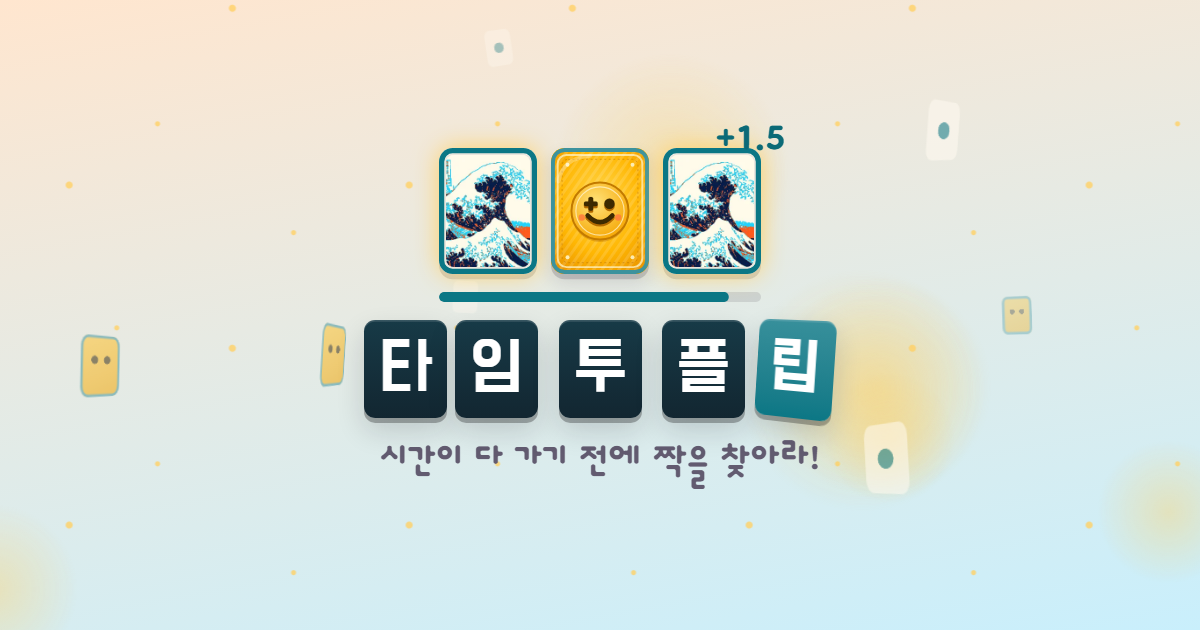
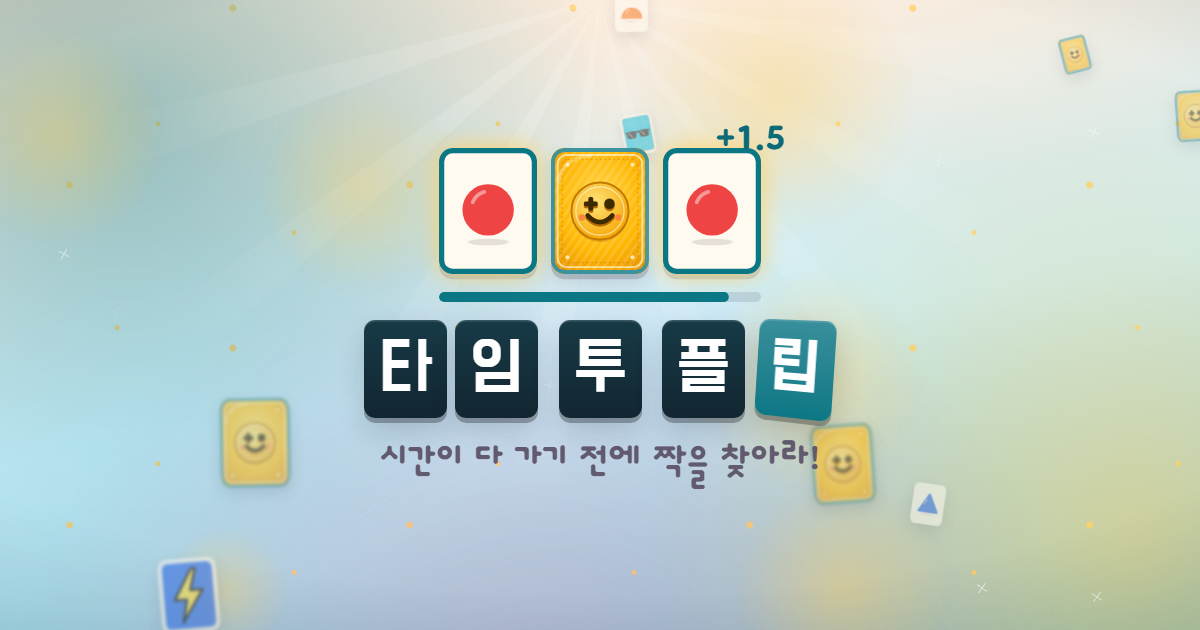
타임 투 플립 명화 숨기기: 로고 시연·배경 카드는 도형·팝아트만, 도감 묶음 이름은 한 장이라도 열어야 보임(timetoflip v0.5.1)
- 시작 화면 로고 카드 세 장: 명화 → 도형(빨강 원·파랑 세모), 링크 미리보기 그림도 다시 찍음(og-image ?v=4)
- 배경 떠다니는 카드: 도형·팝아트 묶음에서만
- 도감: 묶음 안 카드를 하나도 못 맞혔으면 묶음 이름을 ??? 로

diff --git a/games/timetoflip/src/ui/scene.ts b/games/timetoflip/src/ui/scene.ts
@@ -1,4 +1,4 @@
-import { ALL_FACES, type FaceId } from '../game/faces';
+import { FACE_SETS, type FaceId } from '../game/faces';
 import { CARD_BACK, faceSvg } from './art';
 import { reducedMotion } from './effects';
 
@@ -6,7 +6,7 @@ import { reducedMotion } from './effects';
  * 깊이감 있는 움직이는 배경(화면 뒤 고정 층). 색은 스킨을 따른다(styles.css .scene).
  *   빛      스킨 색이 번지는 오로라 덩어리 3개가 천천히 흐르고, 위에서 빛줄기가 느리게 돈다. 가장자리는 살짝 어둡게(비네트)
  *   먼 층   큰 빛망울이 떠다니며 숨 쉬듯 커졌다 작아짐 + 작은 반짝이
- *   중간 층 실제 카드(뒷면·도형·팝아트·명화)가 좌우로 흔들리며 떠오르고, 가끔 뒤집혀 그림을 보였다 다시 덮음
+ *   중간 층 실제 카드(뒷면·도형·팝아트)가 좌우로 흔들리며 떠오르고, 가끔 뒤집혀 그림을 보였다 다시 덮음
  *   가까운 층 큰 카드가 더 빠르게, 살짝 흐릿하게(초점 밖) 지나감
  * 가까울수록 크고·빠르고·흐리게 해서 깊이를 낸다. PC 에서는 마우스를 따라 층마다 다른 만큼 움직인다(시차).
  * 움직임은 transform·opacity 만 쓰고(GPU 합성), 게임 중에는 흐리게 해 카드를 방해하지 않는다.
@@ -18,8 +18,8 @@ export function mountScene(): void {
   let seed = 7;
   const rnd = () => ((seed = (seed * 16807) % 2147483647) / 2147483647);
   const pick = (a: number, b: number) => (a + rnd() * (b - a)).toFixed(2);
-  // 떠다니는 카드 그림: 48장에서 고르게 섞어 뽑는다(도형·팝아트·명화가 골고루 보이게)
-  const faces = [...ALL_FACES].sort(() => rnd() - 0.5);
+  // 떠다니는 카드 그림: 처음 두 묶음(도형·팝아트)에서만 뽑는다. 명화는 게임에서 만나는 깜짝 선물로 남겨 둔다
+  const faces = FACE_SETS.slice(0, 2).flatMap((s) => [...s.faces] as FaceId[]).sort(() => rnd() - 0.5);
   let next = 0;
   const face = (): FaceId => faces[next++ % faces.length];
 

diff --git a/games/timetoflip/src/ui/screens.ts b/games/timetoflip/src/ui/screens.ts
@@ -116,7 +116,7 @@ function titleCards(title: string): string {
 function heroDemo(): string {
   const card = (n: number, face: FaceId) =>
     `<span class="card demo-card d${n}"><span class="inner"><span class="side back">${CARD_BACK}</span><span class="side front">${faceSvg(face)}</span></span></span>`;
-  return `<div class="demo">${card(1, 'wave')}${card(2, 'strawhat')}${card(3, 'wave')}<b class="demo-pop">+1.5</b></div><div class="demo-timer"><i></i></div>`;
+  return `<div class="demo">${card(1, 'circle')}${card(2, 'triangle')}${card(3, 'circle')}<b class="demo-pop">+1.5</b></div><div class="demo-timer"><i></i></div>`;
 }
 
 export function startScreen(opts: StartOptions): HTMLElement {
@@ -219,7 +219,7 @@ function openDex(host: HTMLElement, save: SaveData): void {
       <div class="dex-sets">
         ${FACE_SETS.map(
           (s, i) => `<section>
-            <h3>${setName(s.id)} <small>${t('dex.from', { n: i + 1 })}</small></h3>
+            <h3>${s.faces.some((f) => found.has(f)) ? setName(s.id) : '???'} <small>${t('dex.from', { n: i + 1 })}</small></h3>
             <ul>${s.faces
               .map((f) => {
                 const label = found.has(f) ? `${faceName(f)}${gold.has(f) ? ` · ${t('dex.gold')}` : ''}` : `??? — ${t('dex.locked')}`;

diff --git a/games/timetoflip/index.html b/games/timetoflip/index.html
@@ -15,7 +15,7 @@
     <meta property="og:title" content="타임 투 플립 ⏱" />
     <meta property="og:description" content="시간이 다 가기 전에 짝을 찾아라! 맞힐수록 시간이 늘어나는 카드 짝 맞추기" />
     <meta property="og:url" content="https://myong558.github.io/project-joypack/games/timetoflip/" />
-    <meta property="og:image" content="https://myong558.github.io/project-joypack/games/timetoflip/og-image.png?v=3" />
+    <meta property="og:image" content="https://myong558.github.io/project-joypack/games/timetoflip/og-image.png?v=4" />
     <meta property="og:image:width" content="1200" />
     <meta property="og:image:height" content="630" />
     <meta property="og:image:alt" content="타임 투 플립 게임 화면" />

diff --git a/games/timetoflip/README.md b/games/timetoflip/README.md
@@ -8,7 +8,7 @@
 - 모드: 클래식(끝없이 이어지는 판) / 오늘의 챌린지(날짜 시드, 모두 같은 카드 배치)
 - 랭킹: `games/timetoflip/rankings/classic`, `daily-YYYY-MM-DD`(순위표 1개 = 문서 1개, `{ name, score, stage, date }`). 점수 높은 순, 동점은 먼저 올린 기록
 - 손맛: 아래 "손맛" 표
-- 정체성: 째깍째깍 경쾌한 시간 퍼즐 · 글꼴 Do Hyeon(본문·숫자) + Dongle Bold(제목·팝업, Do Hyeon 에 없는 기호도) + Jua(공용 위 메뉴 언어 단추만) · 청록 `#0b7785`(스킨마다 바뀜) · 자명종 마스코트 째깍이(게임 중 시간 막대) + 조이팩 로고 얼굴 카드 뒷면 · 로고: 진한 글자 카드 제목(마지막 글자만 강조색으로 뒤집히는 중, 누르면 한 바퀴 뒤집힘) 위에 카드 세 장 시연(뒤집기 → 틀림 → 짝 → 시간 막대 차오름, 7초 반복, 결과 화면 위에도 작게) · 아이콘: 진한 남보라 바탕(허브 청록 그림판과 구분)에 조이팩 얼굴 뒷면 + 달 앞면 카드와 시간 막대 · 배경: 스킨 하늘(위쪽 빛 + 아래로 강조색) 위에 오로라 덩어리 셋·도는 빛줄기·비네트, 먼 빛망울·반짝이, 실제 카드 그림이 좌우로 흔들리며 떠올라 뒤집혔다 덮임(가까운 층은 흐릿하게, 게임 중 흐리게) · 시간대 스킨(아침·한낮·노을·밤) · 마림바 같은 사인파, 콤보마다 음이 오름 · 3D 뒤집기·콤보 음계·시간 팝업
+- 정체성: 째깍째깍 경쾌한 시간 퍼즐 · 글꼴 Do Hyeon(본문·숫자) + Dongle Bold(제목·팝업, Do Hyeon 에 없는 기호도) + Jua(공용 위 메뉴 언어 단추만) · 청록 `#0b7785`(스킨마다 바뀜) · 자명종 마스코트 째깍이(게임 중 시간 막대) + 조이팩 로고 얼굴 카드 뒷면 · 로고: 진한 글자 카드 제목(마지막 글자만 강조색으로 뒤집히는 중, 누르면 한 바퀴 뒤집힘) 위에 카드 세 장 시연(도형 카드로, 명화는 미리 보이지 않게 · 뒤집기 → 틀림 → 짝 → 시간 막대 차오름, 7초 반복, 결과 화면 위에도 작게) · 아이콘: 진한 남보라 바탕(허브 청록 그림판과 구분)에 조이팩 얼굴 뒷면 + 달 앞면 카드와 시간 막대 · 배경: 스킨 하늘(위쪽 빛 + 아래로 강조색) 위에 오로라 덩어리 셋·도는 빛줄기·비네트, 먼 빛망울·반짝이, 실제 카드 그림이 좌우로 흔들리며 떠올라 뒤집혔다 덮임(가까운 층은 흐릿하게, 게임 중 흐리게) · 시간대 스킨(아침·한낮·노을·밤) · 마림바 같은 사인파, 콤보마다 음이 오름 · 3D 뒤집기·콤보 음계·시간 팝업
 - 상업 기준(10장):
   - 이름 검색(2026-10-24, 웹 검색): "Time to Flip"과 똑같은 게임·상표는 찾지 못함. 비슷한 것: USPTO **TIMEFLIP**(시간 기록 기기·소프트웨어, 게임 아님), itch.io 플랫폼 게임 "Time Flip"·퍼즐 데모 "Time Flipper"(장르 다름). 한국어 "타임 투 플립"은 못 찾음. **출시 전에 KIPRIS·USPTO·구글 플레이·앱스토어 검색을 다시 할 것**
   - 저작물: 도형·팝아트 카드 16장·특수 카드·카드 뒷면·마스코트·아이콘은 `src/ui/art.ts`·`public/favicon.svg` 에서 코드로 직접 그림(팝아트는 특정 작품을 베끼지 않은 화풍만). 명화 카드 32장은 메트로폴리탄 미술관 Open Access(CC0, 상업 이용·수정 자유) 이미지를 잘라 만든 `src/art/*.webp`(작품 번호·출처 `art-src/meta.json`, 만드는 법 `art-src/README.md`). 미술관 이름·로고로 후원·제휴처럼 보이게 하지 않는다. 소리는 Web Audio 합성. 제3자 것은 Do Hyeon·Dongle·Jua 글꼴(모두 SIL OFL 1.1, 예약 글꼴 이름 없음 → 서브셋 허용, `public/fonts/LICENSE-DoHyeon.txt`·`LICENSE-Dongle.txt`·`LICENSE-Jua.txt` 함께 배포)
